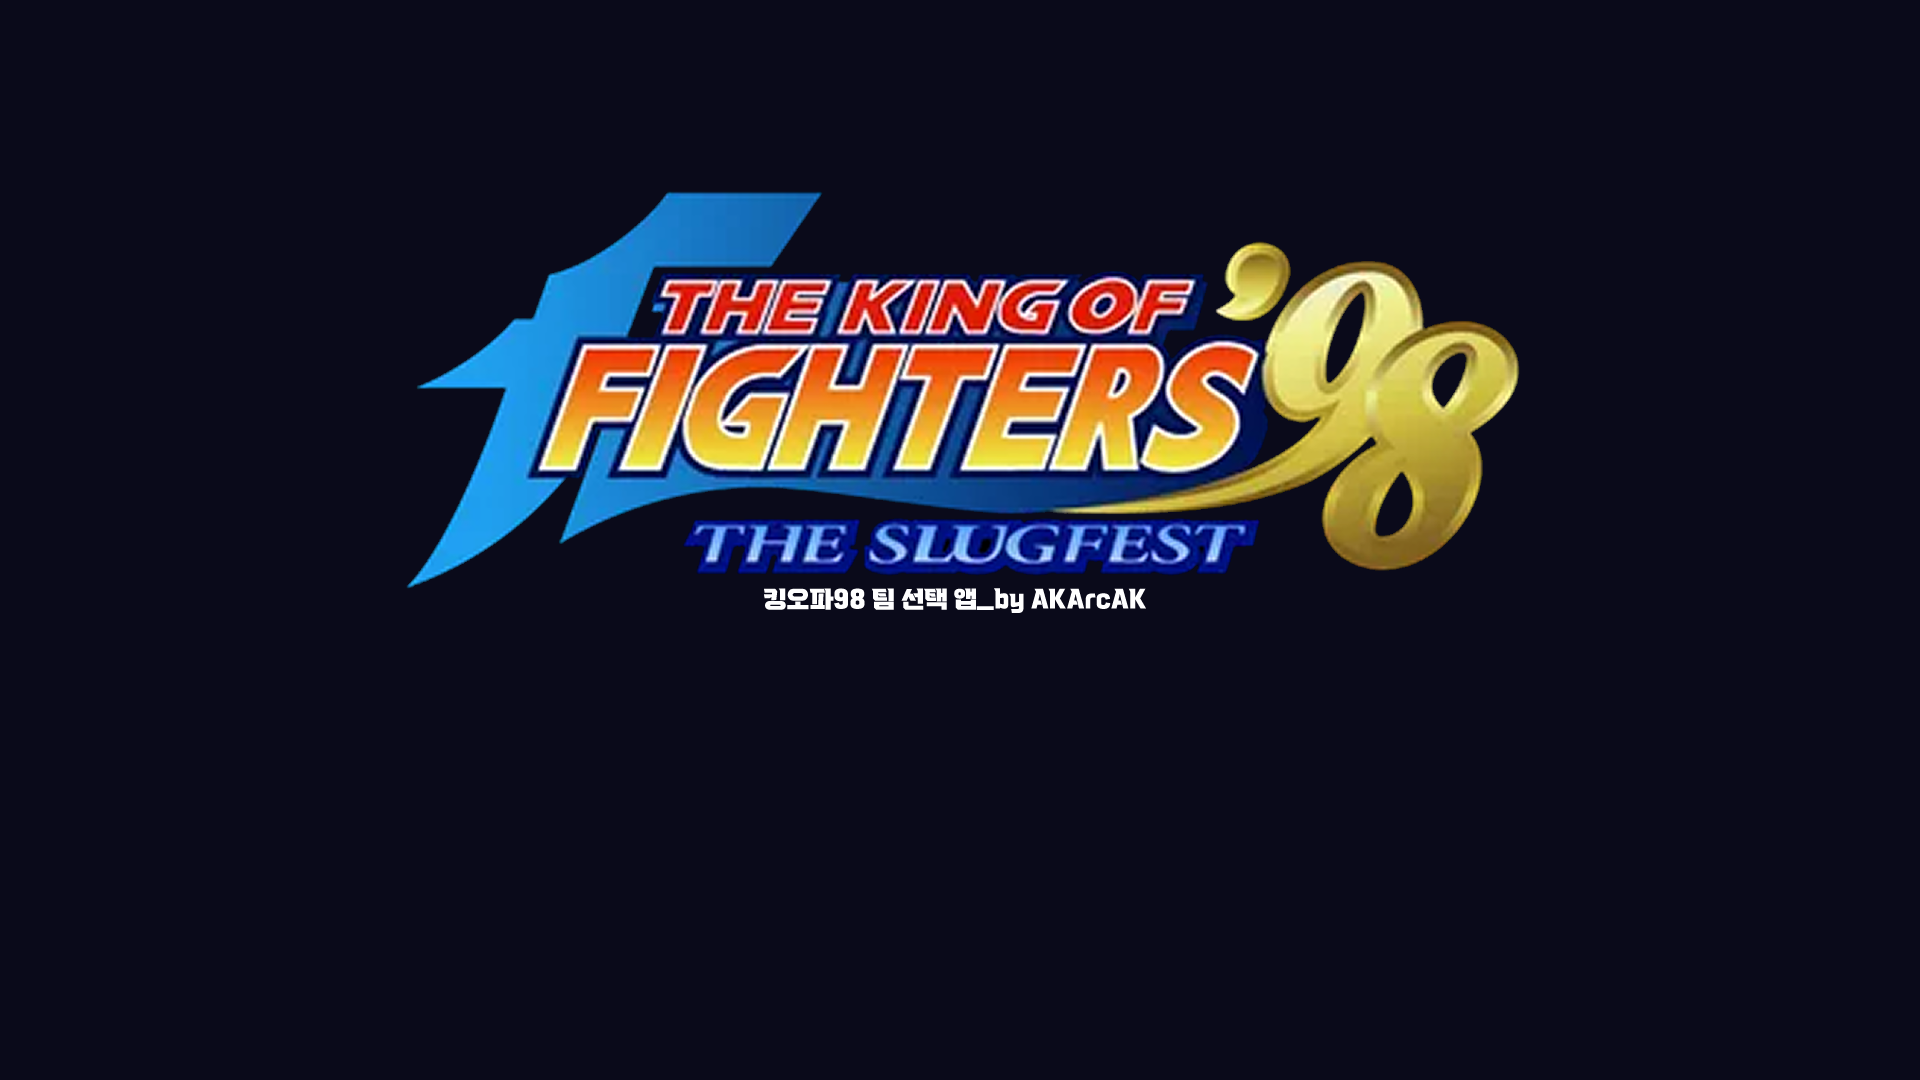
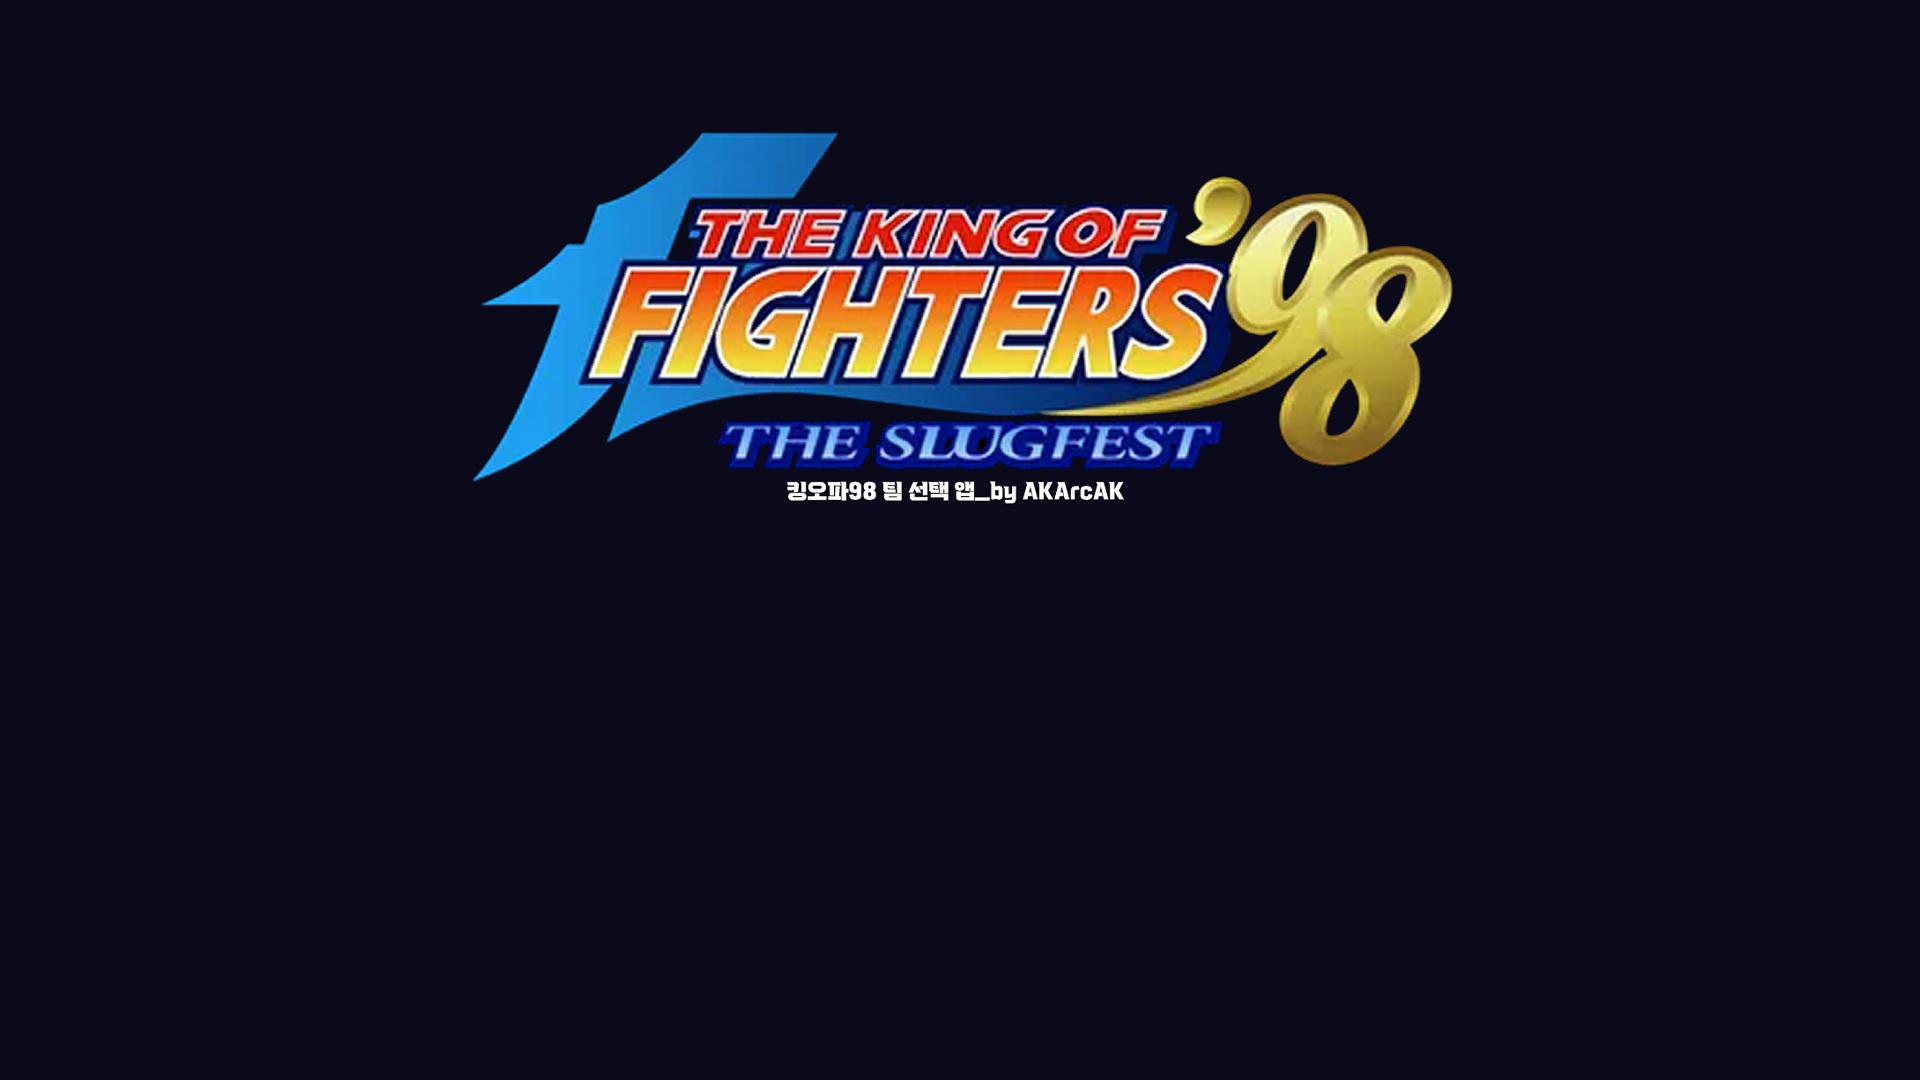
feat: 버튼 레이아웃 통일 & Title.png 업데이트
- 버튼 순서: 3층탑/5층탑/이름입력/대회모드/캐릭터중복
- btn-side height 80px로 btn-cell과 통일
- name-input height 80px, box-sizing 맞춤
- btn-grid gap 12px로 통일
- Title.png 재업로드

Changed region(s): [[0.2188, 0.1222, 0.8125, 0.5806]]

diff --git a/KOF98.html b/KOF98.html
@@ -33,17 +33,18 @@ html, body { width:100%; height:100%; background:#000; overflow:hidden; }
   padding-bottom:90px;
 }
 #name-input {
-  font-size:36px; padding:18px 36px;
+  font-size:28px; padding:0 36px;
   border:3px solid #f0c040;
   background:#111130; color:#fff;
   border-radius:8px; outline:none;
   flex:3; min-width:0; text-align:center;
+  height:80px; box-sizing:border-box;
 }
 #name-input:focus { border-color:#fff; box-shadow:0 0 16px #f0c040; }
 /* 버튼 공통: 5열 그리드, 크기 통일 */
 #btn-grid {
   display:flex; flex-direction:column;
-  gap:16px; margin-top:36px; align-items:center;
+  gap:12px; margin-top:12px; align-items:center;
 }
 .btn-row {
   display:flex; gap:12px;
@@ -102,8 +103,8 @@ html, body { width:100%; height:100%; background:#000; overflow:hidden; }
   width:1640px;
 }
 .btn-side {
-  flex:1; height:60px;
-  font-size:17px; font-weight:bold;
+  flex:1; height:80px;
+  font-size:18px; font-weight:bold;
   border-radius:8px; cursor:pointer;
   border:3px solid #4488cc;
   background:#1a1a3a; color:#aaddff;
@@ -680,8 +681,8 @@ html, body { width:100%; height:100%; background:#000; overflow:hidden; }
     <div id="name-row">
       <button class="btn-side" id="btn-tower3">3층 탑</button>
       <button class="btn-side" id="btn-tower">5층 탑</button>
-      <button class="btn-side" id="btn-tournament">대회 모드</button>
       <input id="name-input" type="text" placeholder="플레이어 이름 입력" maxlength="20">
+      <button class="btn-side" id="btn-tournament">대회 모드</button>
       <button class="btn-side" id="btn-dup-toggle">캐릭터 중복 불가</button>
     </div>
     <div id="btn-grid">
